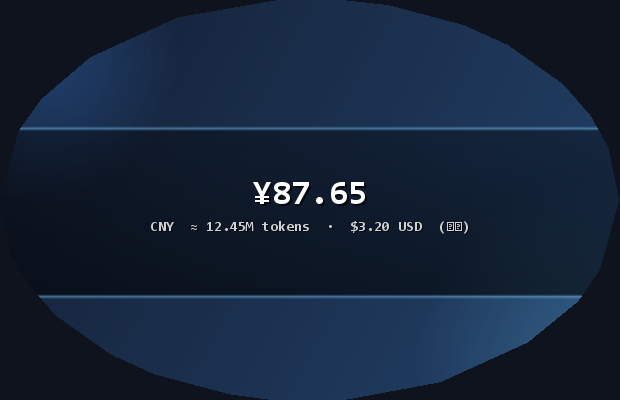
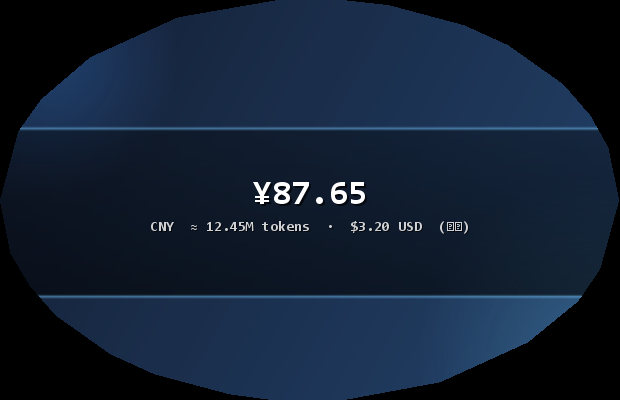
修：带透明通道的背景图不再被填成黑色
原因
- 窗口一直是不透明的（为了避开「逐像素透明窗口会让 LCD 次像素抗锯齿把文字画成完全
  透明」这个坑），不透明窗口有自己的背景色，于是图片的透明像素被合成到了那层近黑色
  底上——抠图 PNG 因此变成一个黑框

改法
- 载入图片时检测是否真的存在非不透明像素（按步长采样，大图也只花几毫秒），有则把窗口
  切到逐像素透明：透明处直接透出桌面，半透明的柔和边缘也与桌面自然混合
- 文字改用灰度抗锯齿（金额本来就是这样画的，这次把失败提示也补上），所以透明窗口上
  金额和提示都正常可见；窗口仍然保留 setShape 的形状
- 若系统不支持窗口透明，保留原模式并在图片上留一行说明，不会只给一个黑框
- 编辑器画布与右侧预览在图片下方铺棋盘格：编辑器看不到桌面，用它表示「这里是透明的」；
  小窗口本身不画棋盘格

自测
- 新增「透明背景图」：抠图 PNG 必须让窗口转为逐像素透明；渲染到带 alpha 的图上时，
  透明处必须完全没有被绘制（alpha=0），不透明处必须画满（alpha=255）；
  反过来，只有 alpha 通道但全不透明的图片必须保持普通不透明窗口（不能白付透明窗口的代价）

Changed region(s): [[0.5516, 0.0, 1.0, 1.0], [0.0, 0.54, 0.429, 1.0], [0.0, 0.0, 0.429, 0.48]]

diff --git a/src/main/java/com/ruoyi/dstokencheck/Main.java b/src/main/java/com/ruoyi/dstokencheck/Main.java
@@ -251,7 +251,7 @@ public final class Main {
 
         final BalanceBoard[] ref = new BalanceBoard[1];
         final boolean[] logoutFired = new boolean[1];
-        boolean[] pass = new boolean[14];
+        boolean[] pass = new boolean[15];
 
         try {
             SwingUtilities.invokeAndWait(new Runnable() {
@@ -357,6 +357,8 @@ public final class Main {
             pass[12] = checkCropMatchesWindow();
 
             pass[13] = checkIrregularCropMatchesWindow();
+
+            pass[14] = checkTransparentPicture();
 
             SwingUtilities.invokeAndWait(new Runnable() {
                 @Override
@@ -1202,6 +1204,138 @@ public final class Main {
         } finally {
             //noinspection ResultOfMethodCallIgnored
             source.delete();
+            config.removeBackgroundImage();
+        }
+    }
+
+    /**
+     * A see-through picture must stay see-through: the window goes translucent, and the pixels the
+     * picture leaves empty are not painted at all.
+     *
+     * <p>This is the difference between "the desktop shows through my cut-out" and "my cut-out
+     * arrived as a black rectangle", which is what an opaque window does with transparency. Also
+     * checks the other side of it: a picture that merely <em>has</em> an alpha channel but no
+     * see-through pixels must stay on the plain opaque path.
+     */
+    private static boolean checkTransparentPicture() {
+        AppConfig config = new AppConfig();
+        config.removeBackgroundImage();
+        java.io.File cutout = new java.io.File(AppConfig.directory(), "selftest-cutout.png");
+        java.io.File opaqueAlpha = new java.io.File(AppConfig.directory(), "selftest-alpha-opaque.png");
+        final BalanceBoard[] ref = new BalanceBoard[1];
+        try {
+            // A transparent margin around an opaque plate.
+            java.awt.image.BufferedImage img = new java.awt.image.BufferedImage(
+                    200, 100, java.awt.image.BufferedImage.TYPE_INT_ARGB);
+            java.awt.Graphics2D g = img.createGraphics();
+            try {
+                g.setComposite(java.awt.AlphaComposite.Src);
+                g.setColor(new java.awt.Color(0, 0, 0, 0));
+                g.fillRect(0, 0, 200, 100);
+                g.setComposite(java.awt.AlphaComposite.SrcOver);
+                g.setColor(new java.awt.Color(0x20, 0x60, 0xE0));
+                g.fillRect(40, 20, 120, 60);
+            } finally {
+                g.dispose();
+            }
+            javax.imageio.ImageIO.write(img, "png", cutout);
+
+            // Same colour model, but nothing is actually see-through.
+            java.awt.image.BufferedImage solid = new java.awt.image.BufferedImage(
+                    200, 100, java.awt.image.BufferedImage.TYPE_INT_ARGB);
+            java.awt.Graphics2D sg = solid.createGraphics();
+            try {
+                sg.setColor(new java.awt.Color(0x20, 0x60, 0xE0));
+                sg.fillRect(0, 0, 200, 100);
+            } finally {
+                sg.dispose();
+            }
+            javax.imageio.ImageIO.write(solid, "png", opaqueAlpha);
+
+            config.storeBackgroundImage(cutout);
+            config.setBalanceRegion(new java.awt.geom.Rectangle2D.Float(0.30f, 0.40f, 0.40f, 0.20f));
+            config.setBalanceTextColor(java.awt.Color.WHITE);
+            config.setBounds(new Rectangle(60, 60, 400, 200));
+            config.save();
+
+            SwingUtilities.invokeAndWait(new Runnable() {
+                @Override
+                public void run() {
+                    DeepSeekClient demoClient = new DeepSeekClient();
+                    demoClient.setApiKey("sk-demo-000000000000000000000000");
+                    BalanceBoard b = new BalanceBoard(config, demoClient, null);
+                    b.setLocation(-4000, -4000);
+                    b.setVisible(true);
+                    b.start();
+                    ref[0] = b;
+                }
+            });
+            Thread.sleep(700);
+
+            Rectangle bounds = ref[0].getBounds();
+            boolean wentTranslucent = ref[0].getBackground().getAlpha() == 0;
+
+            // Painted into an alpha image: wherever the picture is transparent, nothing is painted,
+            // which is precisely the pixels the desktop will show through.
+            final java.awt.image.BufferedImage shot = new java.awt.image.BufferedImage(
+                    bounds.width, bounds.height, java.awt.image.BufferedImage.TYPE_INT_ARGB);
+            SwingUtilities.invokeAndWait(new Runnable() {
+                @Override
+                public void run() {
+                    java.awt.Graphics2D g2 = shot.createGraphics();
+                    try {
+                        ref[0].paint(g2);
+                    } finally {
+                        g2.dispose();
+                    }
+                }
+            });
+            int margin = shot.getRGB(3, 3) >>> 24;
+            int plate = shot.getRGB(bounds.width / 2, bounds.height / 2) >>> 24;
+            boolean marginUnpainted = margin == 0;
+            boolean platePainted = plate == 255;
+
+            SwingUtilities.invokeAndWait(new Runnable() {
+                @Override
+                public void run() {
+                    ref[0].dispose();
+                }
+            });
+
+            // Now the same picture with no see-through pixels at all.
+            config.restoreBackgroundImageName("");
+            config.storeBackgroundImage(opaqueAlpha);
+            config.save();
+            final boolean[] stayedOpaque = {false};
+            SwingUtilities.invokeAndWait(new Runnable() {
+                @Override
+                public void run() {
+                    DeepSeekClient demoClient = new DeepSeekClient();
+                    demoClient.setApiKey("sk-demo-000000000000000000000000");
+                    BalanceBoard b = new BalanceBoard(config, demoClient, null);
+                    b.setLocation(-4000, -4000);
+                    stayedOpaque[0] = b.getBackground().getAlpha() == 255;
+                    b.dispose();
+                }
+            });
+
+            boolean ok = wentTranslucent && marginUnpainted && platePainted && stayedOpaque[0];
+            System.out.println((ok ? "PASS" : "FAIL") + "  \u900f\u660e\u80cc\u666f\u56fe"
+                    + " (\u7a97\u53e3\u8f6c\u4e3a\u9010\u50cf\u7d20\u900f\u660e=" + wentTranslucent
+                    + ", \u900f\u660e\u5904\u672a\u7ed8\u5236=" + marginUnpainted
+                    + " (alpha=" + margin + ")"
+                    + ", \u4e0d\u900f\u660e\u5904\u5df2\u7ed8\u5236=" + platePainted
+                    + " (alpha=" + plate + ")"
+                    + ", \u65e0\u900f\u660e\u50cf\u7d20\u65f6\u4fdd\u6301\u4e0d\u900f\u660e=" + stayedOpaque[0] + ")");
+            return ok;
+        } catch (Exception e) {
+            System.out.println("FAIL  \u900f\u660e\u80cc\u666f\u56fe: " + e);
+            return false;
+        } finally {
+            //noinspection ResultOfMethodCallIgnored
+            cutout.delete();
+            //noinspection ResultOfMethodCallIgnored
+            opaqueAlpha.delete();
             config.removeBackgroundImage();
         }
     }

diff --git a/src/main/java/com/ruoyi/dstokencheck/ui/BalanceBoard.java b/src/main/java/com/ruoyi/dstokencheck/ui/BalanceBoard.java
@@ -101,6 +101,9 @@ public class BalanceBoard extends JFrame {
      */
     private static final HWND HWND_TOPMOST = new HWND(Pointer.createConstant(-1L));
 
+    /** Fully transparent window background; see applyPictureTranslucency for why it is needed. */
+    private static final Color TRANSPARENT = new Color(0, 0, 0, 0);
+
     private static final int NONE = 0;
     private static final int WEST = 1;
     private static final int EAST = 2;
@@ -153,6 +156,10 @@ public class BalanceBoard extends JFrame {
     private Rectangle2D.Float imageCrop;
     /** The crop's silhouette; a rectangle unless the user traced an irregular one. */
     private CropShape cropShape;
+    /** True when the picture has see-through pixels, so the window itself is translucent. */
+    private boolean imageHasAlpha;
+    /** True while the window is on the per-pixel translucent path. */
+    private boolean translucent;
     /** Normalised box on that image where the balance is drawn. */
     private Rectangle2D.Float balanceRegion;
     /** Compact "CNY ≈ 12.4M tokens · 含赠送 …" line shown inside the framed box. */
@@ -731,6 +738,63 @@ public class BalanceBoard extends JFrame {
     }
 
     /**
+     * Puts the window on the per-pixel translucent path when the picture has see-through pixels.
+     *
+     * <p>An opaque window has a background colour, so every transparent pixel of the picture is
+     * composited onto it — which is why a cut-out PNG used to arrive as a black rectangle. Only a
+     * per-pixel translucent window lets the desktop show through where the picture is transparent,
+     * and only that path can also blend the soft half-transparent edge of a cut-out properly.
+     *
+     * <p>The cost is the one {@link #applyShape} warns about: on such a window LCD text
+     * antialiasing can emit glyphs with alpha 0. Everything drawn here is therefore antialiased in
+     * greyscale — the balance figure in {@link BalanceTextRenderer}, the error line by the same
+     * rule — and the window keeps a shape so the rest of its rectangle stays out of the way.
+     */
+    private void applyPictureTranslucency() {
+        boolean want = backgroundImage != null && imageHasAlpha;
+        if (want == translucent) {
+            return;
+        }
+        try {
+            setBackground(want ? TRANSPARENT : Theme.BG_BOTTOM);
+            translucent = want;
+            applyOpacity();
+        } catch (Exception e) {
+            // Some platforms only allow switching this before the window is on screen. Keep the mode
+            // we are in and say so on the picture itself — the footer is hidden by then, and a black
+            // rectangle with no explanation is worse than a rectangle with one.
+            String hint = want
+                    ? "\u5f53\u524d\u7cfb\u7edf\u4e0d\u652f\u6301\u7a97\u53e3\u900f\u660e\uff0c\u80cc\u666f\u56fe\u7684\u900f\u660e\u533a\u57df\u4f1a\u663e\u793a\u4e3a\u6df1\u8272"
+                    : "\u80cc\u666f\u56fe\u5df2\u66f4\u6362\uff0c\u91cd\u542f\u540e\u751f\u6548";
+            statusLabel.setForeground(Theme.WARN);
+            statusLabel.setText(hint);
+            board.setErrorText(hint);
+        }
+    }
+
+    /**
+     * True when any pixel of the picture is not fully opaque.
+     *
+     * <p>Sampled rather than scanned: a transparent background covers a large part of the picture,
+     * and a full pass over a 24-megapixel photo is not worth it every time one is loaded.
+     */
+    private static boolean hasTranslucency(BufferedImage image) {
+        if (image == null || !image.getColorModel().hasAlpha()) {
+            return false;
+        }
+        int stepX = Math.max(1, image.getWidth() / 400);
+        int stepY = Math.max(1, image.getHeight() / 400);
+        for (int y = 0; y < image.getHeight(); y += stepY) {
+            for (int x = 0; x < image.getWidth(); x += stepX) {
+                if ((image.getRGB(x, y) >>> 24) < 250) {
+                    return true;
+                }
+            }
+        }
+        return false;
+    }
+
+    /**
      * Clips the window to its outline.
      *
      * <p>Without a picture that is the app's rounded card. With one the window <em>is</em> the
@@ -738,12 +802,11 @@ public class BalanceBoard extends JFrame {
      * rounding and no frame, because cutting a corner off the picture or stroking a line around it
      * would make it a picture inside a card again.
      *
-     * <p>Deliberately <em>not</em> done with per-pixel translucency
-     * ({@code setBackground(new Color(0,0,0,0))}). On Windows a per-pixel translucent window
-     * forces Java2D down a path where LCD text antialiasing emits glyphs with alpha 0: every label
-     * paints successfully but ends up completely transparent, so the window shows its gradient and
-     * any vector-drawn icons while all text silently vanishes. An opaque window clipped by
-     * {@code setShape} gives the same shaped look with normal text.
+     * <p>Note the second reason this exists. A window whose background is left fully transparent
+     * would be clipped to nothing on some platforms, and it is also the shape that keeps the
+     * app's own pixels out of the picture's business — for a see-through picture the window is
+     * additionally put on the per-pixel translucent path, see
+     * {@link #applyPictureTranslucency()}.
      *
      * @return true when the shape was applied
      */
@@ -1258,6 +1321,7 @@ public class BalanceBoard extends JFrame {
         backgroundImage = image;
         imageCrop = image == null ? null : config.getImageCrop();
         cropShape = image == null ? null : config.getEffectiveCropShape();
+        imageHasAlpha = hasTranslucency(image);
         balanceRegion = image == null ? null : config.getBalanceRegion();
         if (image != null && balanceRegion == null) {
             balanceRegion = AppConfig.defaultBalanceRegion();
@@ -1269,6 +1333,7 @@ public class BalanceBoard extends JFrame {
         // into the framed box instead.
         centerPanel.setVisible(image == null);
         updateChromeVisibility();
+        applyPictureTranslucency();
         board.revalidate();
         board.repaint();
     }
@@ -1506,6 +1571,10 @@ public class BalanceBoard extends JFrame {
             Graphics2D g2 = (Graphics2D) g.create();
             try {
                 g2.setRenderingHint(RenderingHints.KEY_ANTIALIASING, RenderingHints.VALUE_ANTIALIAS_ON);
+                // Greyscale text on purpose: on a per-pixel translucent window LCD subpixel
+                // antialiasing can emit glyphs with alpha 0, which would make this line invisible.
+                g2.setRenderingHint(RenderingHints.KEY_TEXT_ANTIALIASING,
+                        RenderingHints.VALUE_TEXT_ANTIALIAS_ON);
                 g2.setFont(Theme.ui(Font.PLAIN, 10.5f));
                 FontMetrics fm = g2.getFontMetrics();
                 String text = fitText(g2, errorText, Math.max(60, getWidth() - 28));

diff --git a/src/main/java/com/ruoyi/dstokencheck/ui/BackgroundRegionDialog.java b/src/main/java/com/ruoyi/dstokencheck/ui/BackgroundRegionDialog.java
@@ -948,6 +948,7 @@ public class BackgroundRegionDialog extends JDialog {
                 if (image != null) {
                     Rectangle cover = BackgroundLayout.imageRect(cropBounds,
                             image.getWidth(), image.getHeight(), w, h);
+                    Theme.paintCheckerboard(g2, 0, 0, w, h);
                     g2.setRenderingHint(RenderingHints.KEY_INTERPOLATION,
                             RenderingHints.VALUE_INTERPOLATION_BILINEAR);
                     g2.drawImage(canvas.displayImage(), cover.x, cover.y, cover.width, cover.height, null);
@@ -1248,6 +1249,9 @@ public class BackgroundRegionDialog extends JDialog {
                         g2.fill(new RoundRectangle2D.Float(cover.x - i, cover.y - i + 1,
                                 cover.width + 2 * i, cover.height + 2 * i, 6, 6));
                     }
+                    // Chequered mat first: where the picture is see-through the widget will show the
+                    // desktop, and the editor has to say so somehow.
+                    Theme.paintCheckerboard(g2, cover.x, cover.y, cover.width, cover.height);
                     // Smoothing matters here: a snapshot straight off a phone is many times the
                     // canvas and nearest-neighbour would shatter it into visible blocks.
                     g2.setRenderingHint(RenderingHints.KEY_INTERPOLATION,

diff --git a/src/main/java/com/ruoyi/dstokencheck/ui/Theme.java b/src/main/java/com/ruoyi/dstokencheck/ui/Theme.java
@@ -97,4 +97,33 @@ public final class Theme {
         g2.setPaint(new GradientPaint(0, h - band, new Color(0, 0, 0, 0), 0, h, new Color(0, 0, 0, 135)));
         g2.fillRect(0, h - band, w, band);
     }
+
+    /**
+     * The chequered mat that means "nothing is drawn here".
+     *
+     * <p>Used behind a picture in the editor and its preview. Without it a transparent PNG simply
+     * looks like a dark picture, which is exactly the confusion this is here to prevent — the
+     * desktop will show through those pixels, the editor cannot show the desktop, so it shows the
+     * convention instead.
+     */
+    public static void paintCheckerboard(Graphics2D g2, int x, int y, int w, int h) {
+        if (w <= 0 || h <= 0) {
+            return;
+        }
+        int cell = 10;
+        java.awt.Shape old = g2.getClip();
+        g2.clipRect(x, y, w, h);
+        g2.setColor(new Color(0x3C, 0x42, 0x4E));
+        g2.fillRect(x, y, w, h);
+        g2.setColor(new Color(0x2F, 0x35, 0x40));
+        for (int row = 0; row * cell < h; row++) {
+            for (int col = 0; col * cell < w; col++) {
+                if (((row + col) & 1) == 0) {
+                    continue;
+                }
+                g2.fillRect(x + col * cell, y + row * cell, cell, cell);
+            }
+        }
+        g2.setClip(old);
+    }
 }

diff --git a/README.md b/README.md
@@ -27,6 +27,7 @@
 | 余额显示 | 主币种余额以大字号显示，其他币种分行列出 |
 | 自定义背景图 | 上传自己的图片并框出显示区域，余额数字落在框内；图片复制到配置目录，原图可删 |
 | 图片即窗口 | 选了背景图就不再画自己的圆角、边框与标题栏，图片本身成为窗口主体 |
+| 透明图片 | 带 alpha 的 PNG 会按原样显示：透明处透出桌面，半透明边缘与桌面混合 |
 | 裁剪图片 | 裁掉图片多余的边缘，小窗口只显示裁剪后的部分，窗口边缘与裁剪线一致 |
 | 自由裁剪 | 手绘任意轮廓（套索），窗口直接变成那个形状——抠出来的主体就是窗口本身 |
 | 自动刷新 | 默认 60 秒，可选 5 / 10 / 30 / 60 / 300 秒 |
@@ -159,6 +160,12 @@ java -jar target\dstokencheck.jar
 
 ![轮廓窗口](tools/background-window.png)
 
+**带透明通道的图片也照原样显示**：如果图片有透明区域（抠图 PNG、带柔和边缘的贴图），窗口会切成
+逐像素透明——透明处直接透出桌面，半透明的边缘也与桌面自然混合，不会被填成黑色。
+编辑器与右侧预览用棋盘格标出这些区域，方便先确认哪些部分会被透掉。
+
+![透明背景图](tools/background-window-alpha.png)
+
 操作方式：
 
 | 操作 | 方式 |
@@ -183,6 +190,9 @@ java -jar target\dstokencheck.jar
 - **有背景图的窗口只显示图片与余额数字**：标题栏、窗口按钮、底部信息都不会叠在图片上。
   刷新、置顶、换图、改颜色、退出都在**右键菜单**里；平时唯一可能出现在图片上的文字，
   是刷新失败时左下角那一行红色小字（成功后自动消失）。
+- **透明与半透明都保留**：图片带 alpha 时窗口走逐像素透明，透明处透出桌面，柔和的半透明
+  边缘与桌面混合。编辑器画布与预览用棋盘格表示这些区域（棋盘格只出现在编辑器里，
+  小窗口上不会画）。
 - 字体大小在有背景图时只影响（已经隐藏的）界面文字，不会再改变窗口尺寸——窗口比例由裁剪决定。
 - 「恢复默认背景」可随时回到内置深色卡片，并删除配置目录里的图片副本（连同裁剪设置）。
 
@@ -364,6 +374,7 @@ tools/                            开发期工具，不影响程序运行
 ├── demo-window.png               小窗口渲染效果
 ├── background-window.png         自由裁剪（轮廓窗口）下的小窗口渲染效果
 ├── background-window-rect.png    矩形裁剪下的小窗口：就是图片本身，无边框无标题栏
+├── background-window-alpha.png   带透明通道的图片：透明处透出桌面
 ├── background-dialog.png         背景图设置窗口渲染效果
 ├── background-crop.png           矩形裁剪模式的渲染效果
 └── background-free.png           自由裁剪（手绘轮廓）模式的渲染效果
@@ -383,5 +394,7 @@ tools/                            开发期工具，不影响程序运行
 - 套用背景图后窗口只能**等比缩放**：窗口边缘要一直压在裁剪线上，自由拉边会让画面被切或被压扁。
   需要别的比例时，改裁剪范围即可。
 - 有背景图时窗口不画任何应用自己的装饰（圆角、边框、标题栏、底栏），操作全部走右键菜单。
+- 带透明通道的图片会让窗口走**逐像素透明**（由系统合成，比普通窗口稍费一点资源）。
+  若系统不支持窗口透明，透明区域会退化为深色，并在图片上留一行提示。
 - 自由裁剪的轮廓只能整体移动、等比缩放或重新画：不支持单独拖动某一个顶点。
   轮廓顶点上限 96 个，手绘轨迹会自动简化到远低于这个数，保证窗口移动时不卡。
